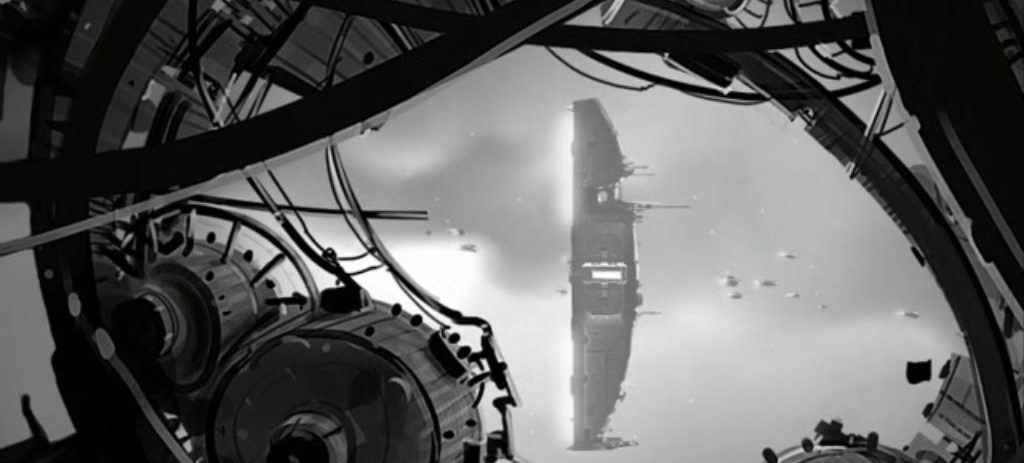
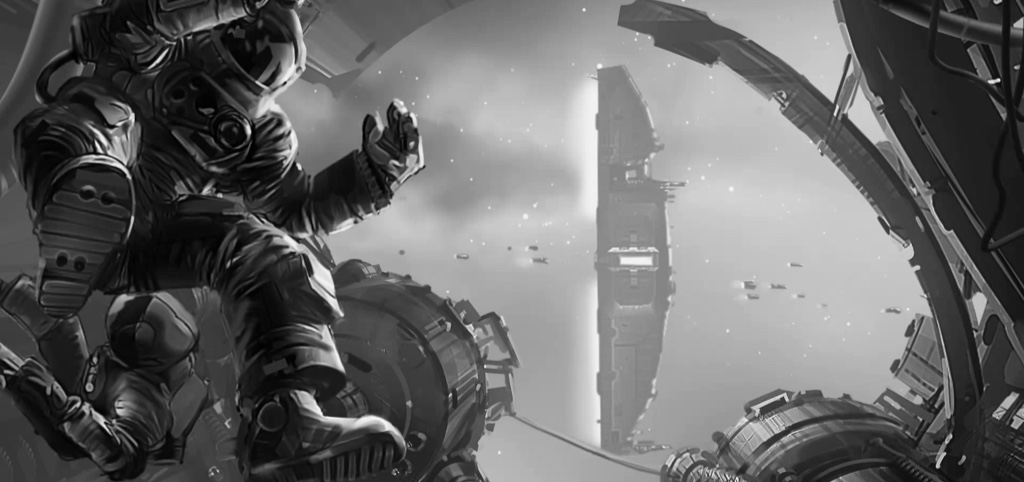
用心的 banner_hw1.jpg

diff --git a/public/info/history/homeworld1.php b/public/info/history/homeworld1.php
@@ -4,7 +4,7 @@ include __DIR__ . '/../../../src/init.php';
 echo \Q\Core\Templator::render('main.twig', [
     'title' => '回歸家園',
     'desc' => '數千年的離鄉，最後浴血回歸',
-    'main_image' => 'banner3.jpg',
+    'main_image' => 'banner_hw1.jpg',
     'head_ban' => [
        'class' => [],
        'type' => 'sidekick',
